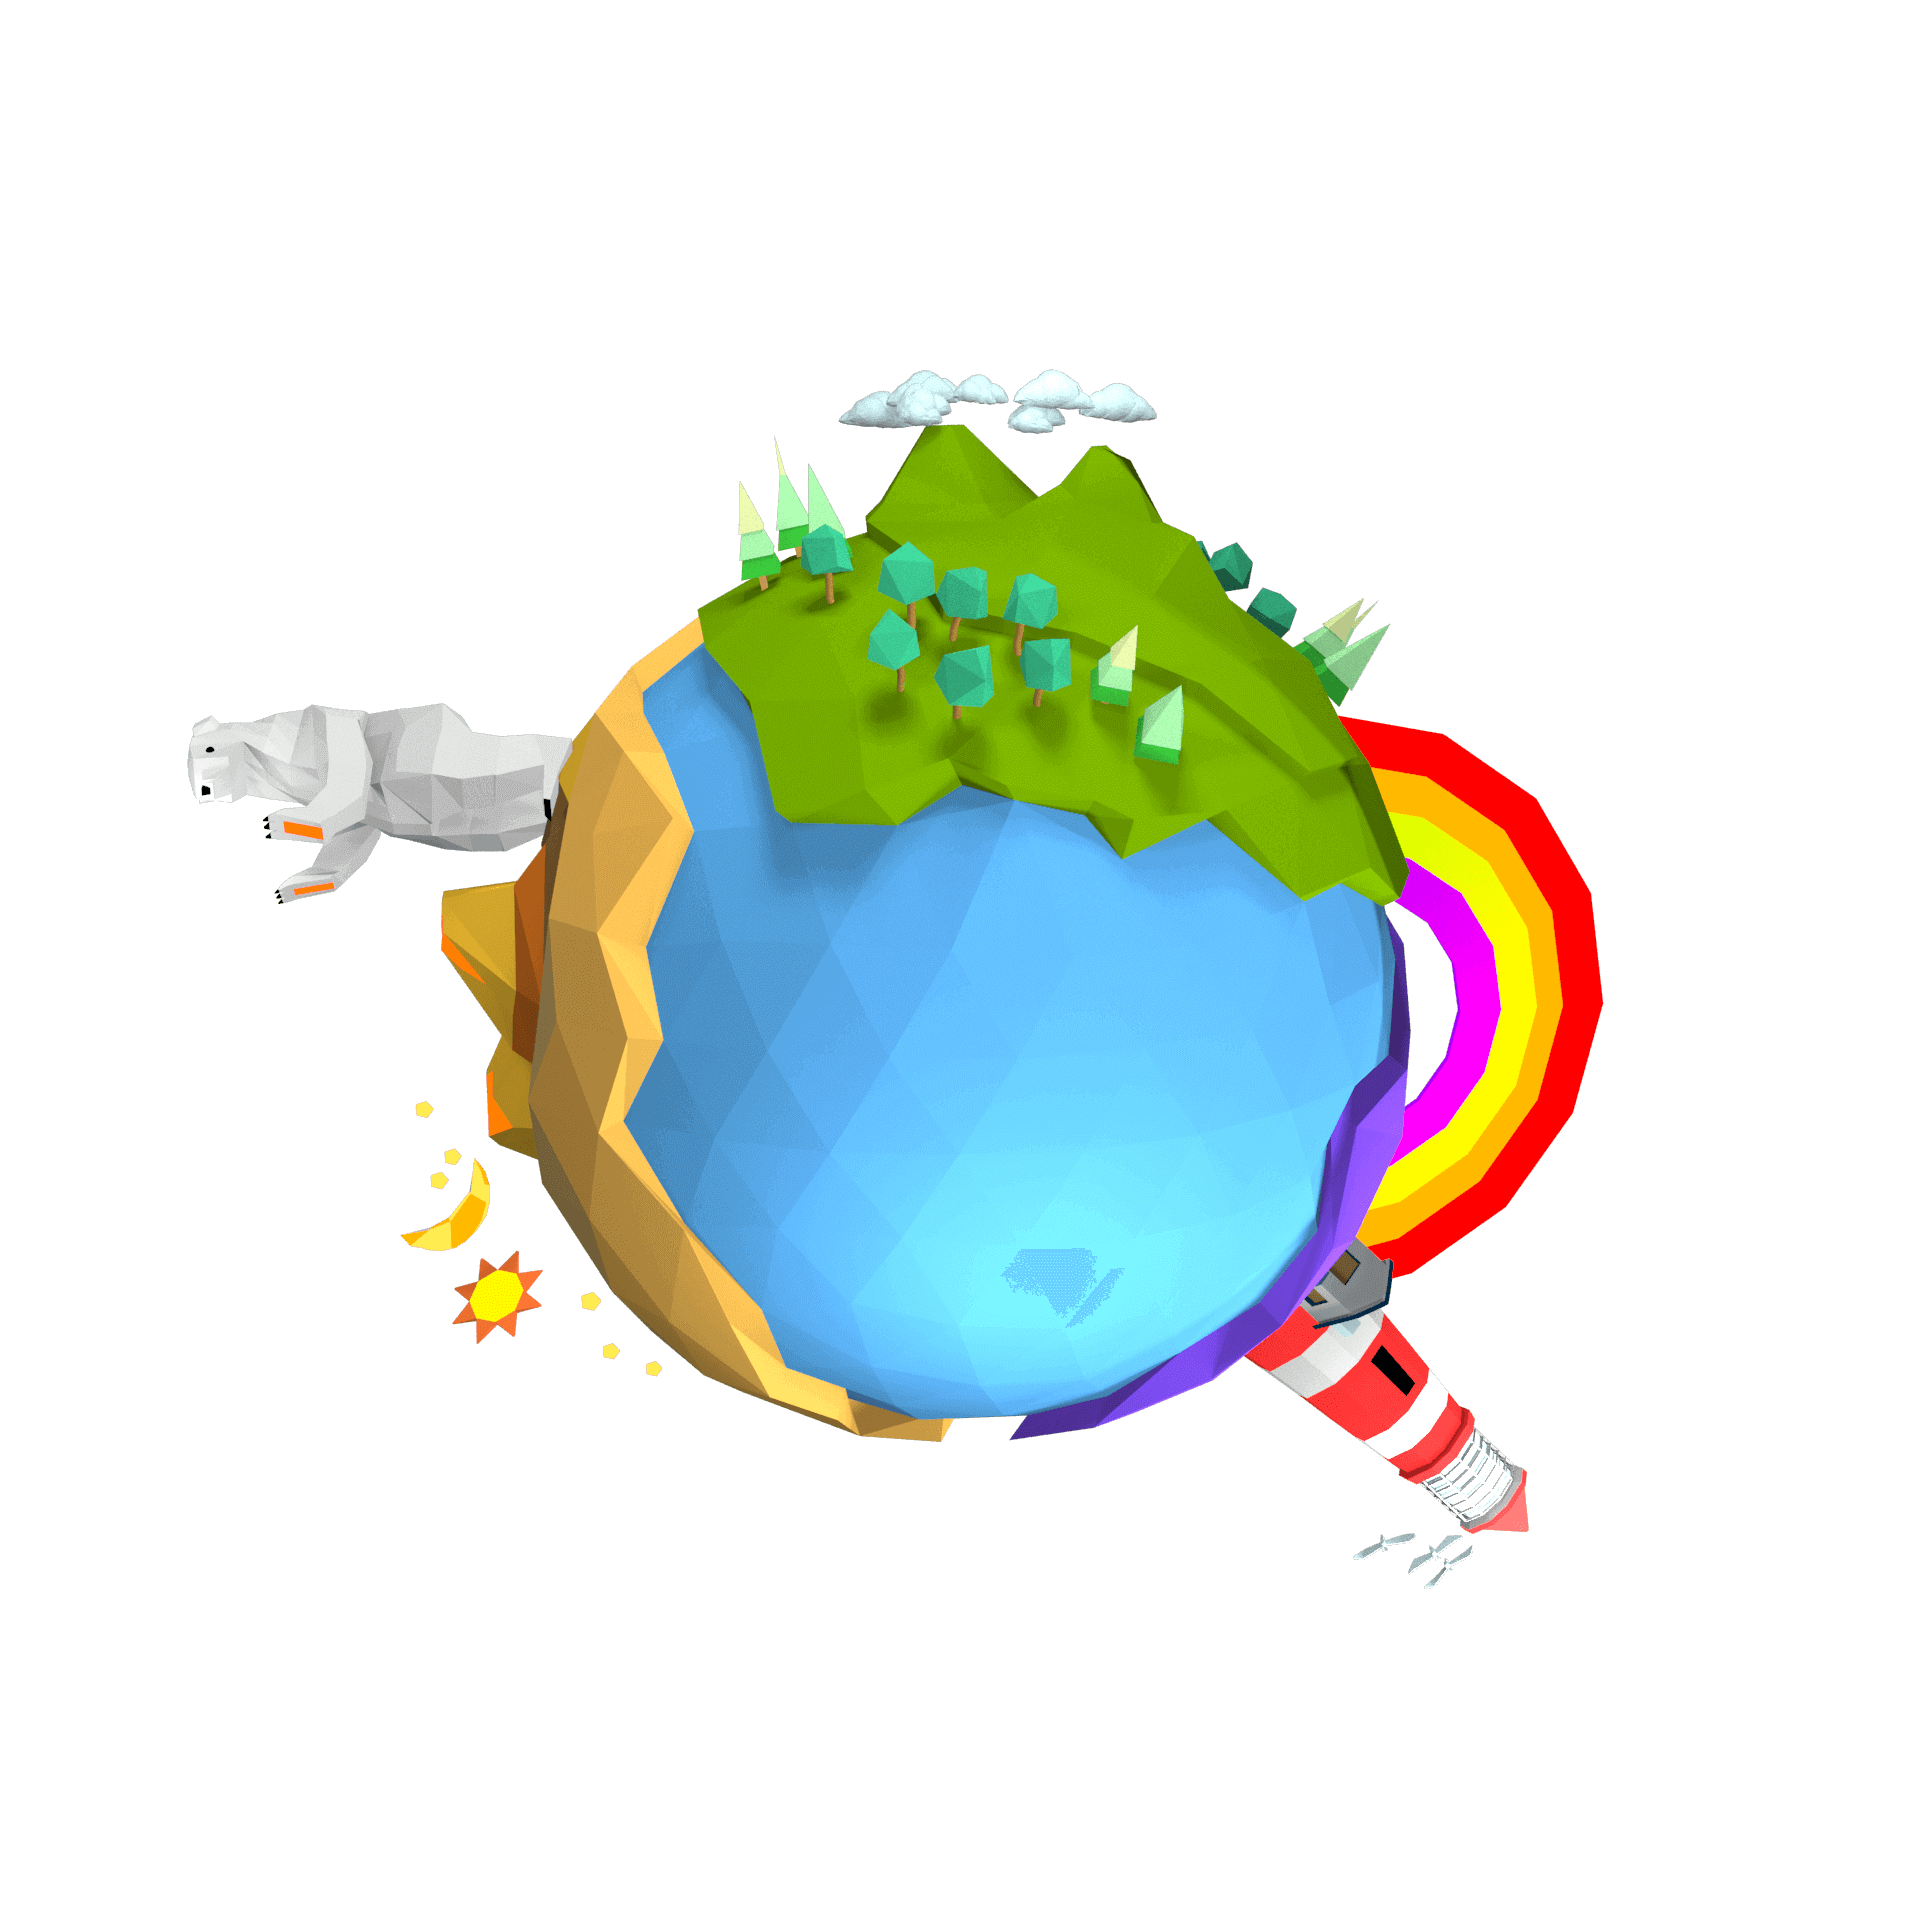
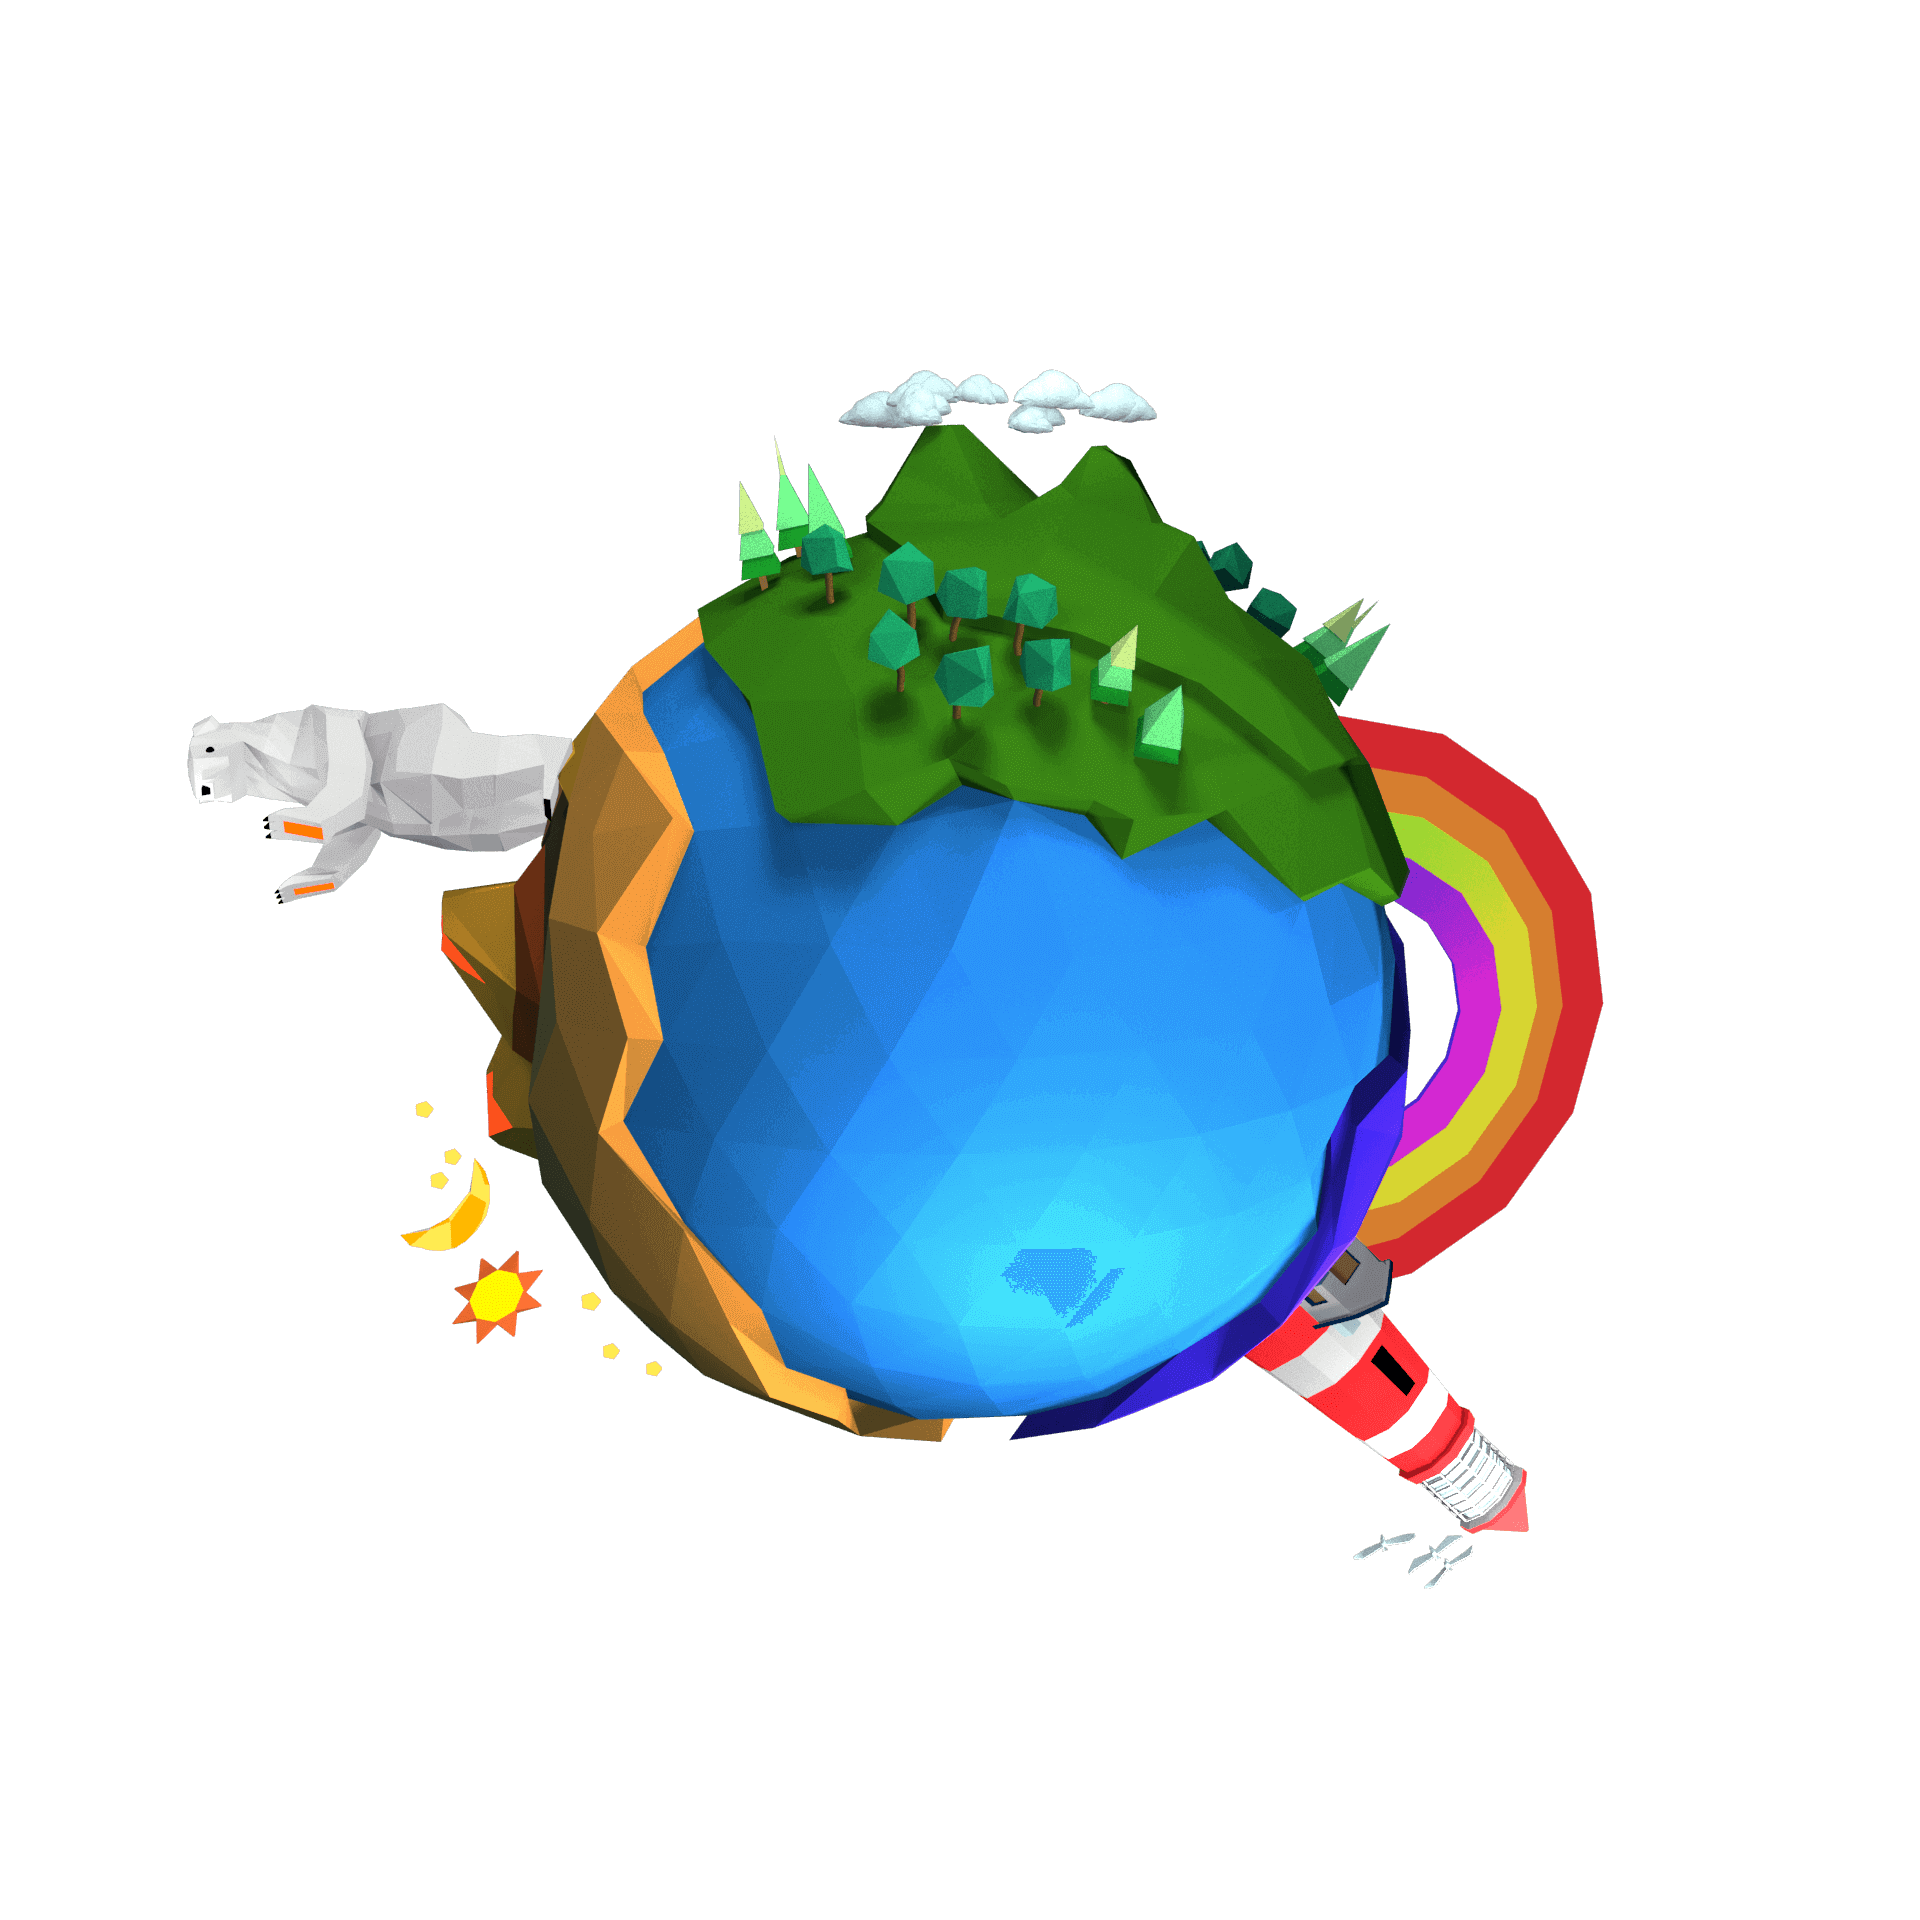
UI

Changed region(s): [[0.2188, 0.2188, 0.8438, 0.75]]

diff --git a/css/home.css b/css/home.css
@@ -9,26 +9,79 @@
   background-color: #171717;
 }
 /*---------------------circle and bg--------------------*/
-.circle {
+.world-background-circle {
   position: absolute;
-  top: 60%;
+  top: 70%;
   left: 50%;
   transform: translateX(-50%);
-  border-radius: 50%;
-  /* z-index-99-93 */
+  display: flex;
+  justify-content: center;
+  align-items: center;
+  border: 1px solid red;
 }
-.circle > div {
-  width: 10dvh;
-  height: 10dvh;
-}
-.world-background {
+.world-circle {
   position: absolute;
-  top: 50%;
-  left: 50%;
-  transform: translate(-50%, -50%);
-  width: 90%;
-  height: 100%;
+  border-radius: 50%;
+}
+.c0 {
+  width: 300dvh;
+  height: 300dvh;
+  background-color: #1e2125;
   z-index: 0;
+}
+.c1 {
+  width: 270dvh;
+  height: 270dvh;
+  background-color: #1a1e21;
+  z-index: 1;
+}
+.c2 {
+  width: 240dvh;
+  height: 240dvh;
+  background-color: #171a1d;
+  z-index: 2;
+}
+.c3 {
+  width: 210dvh;
+  height: 210dvh;
+  background-color: #141619;
+  z-index: 3;
+}
+.c4 {
+  width: 180dvh;
+  height: 180dvh;
+  background-color: #111315;
+  z-index: 4;
+}
+.c5 {
+  width: 150dvh;
+  height: 150dvh;
+  background-color: #0d0f10;
+  z-index: 5;
+}
+.c6 {
+  width: 120dvh;
+  height: 120dvh;
+  background-color: #0a0b0c;
+  z-index: 6;
+}
+.c7 {
+  width: 90dvh;
+  height: 90dvh;
+  background-color: #070708;
+  z-index: 7;
+}
+.c8 {
+  width: 60dvh;
+  height: 60dvh;
+  background-color: #030404;
+  z-index: 8;
+}
+.c9 {
+  width: 30dvh;
+  height: 30dvh;
+  background-color: #000000;
+  z-index: 9;
 }
 /*---------------------circle and bg--------------------*/
 /*---------------------core--------------------*/
@@ -233,6 +286,18 @@
   opacity: 0;
   transition: all 0.5s ease-in-out;
 }
+/* .world-bear-sparkle {
+  position: absolute;
+  top: 25%;
+  left: 0%;
+  transform: rotate(-100deg);
+  width: 50dvh;
+  height: 100dvh;
+  z-index: 7;
+  transition: all 0.5s ease-in-out;
+  background-color: red;
+  color: green;
+} */
 .speech-bubble {
   position: relative;
   width: 100%;
@@ -335,24 +400,13 @@
   height: 12dvh;
   font-size: 1.5rem;
   font-weight: 100;
-  /* color: red; */
   background-color: rgba(186, 227, 200, 0.2);
-  /* background-color: rgba(186, 227, 200, 0.1); */
   border-radius: 40% 60% 35% 65% / 47% 40% 60% 53%;
-  /* border: 1px solid rgba(255, 25, 0, 1); */
   transition: all 0.5s ease-in-out;
   animation: animateHalo 4s infinite linear;
   z-index: 10;
   cursor: pointer;
 }
-/* .light-halo.lh0 > i {
-  transform: rotate(45deg);
-}
-.light-halo.lh0:hover {
-  color: red;
-  background-color: rgba(255, 0, 0, 0.1);
-  border: 1px solid rgba(255, 25, 0, 1);
-} */
 .light-halo.lh1 {
   left: -4%;
   bottom: -5%;
@@ -360,7 +414,6 @@
   height: 17dvh;
   background-color: rgba(185, 235, 201, 0.1);
   border-radius: 52% 48% 69% 31% / 59% 51% 49% 41%;
-  /* border: 1px solid rgba(185, 235, 201, 0.1); */
   animation: animateHalo 6s infinite linear;
   z-index: 8;
 }
@@ -371,7 +424,6 @@
   height: 20dvh;
   background-color: rgba(156, 226, 180, 0.08);
   border-radius: 52% 48% 76% 24% / 44% 52% 48% 56%;
-  /* border: 1px solid rgba(185, 235, 201, 0.1); */
   animation: animateHalo 8s infinite linear;
   z-index: 8;
 }
@@ -402,27 +454,30 @@
   filter: drop-shadow(0px 0px 10px rgba(156, 226, 180, 0.4));
   transform: rotateZ(30deg) translateX(-50%);
   overflow: hidden;
-  z-index: 7;
 }
 .laser-beam.lb0 {
   width: 1dvh;
   animation: laser 6s infinite;
   border-top: 150dvh solid rgba(156, 226, 180, 0.08);
+  z-index: 7;
 }
 .laser-beam.lb1 {
   width: 0.8dvh;
   animation: laser 6.5s infinite;
   border-top: 150dvh solid rgba(156, 226, 180, 0.1);
+  z-index: 8;
 }
 .laser-beam.lb2 {
   width: 1.2dvh;
   animation: laser 7s infinite;
   border-top: 150dvh solid rgba(156, 226, 180, 0.2);
+  z-index: 9;
 }
 .laser-beam.lb3 {
   width: 0.7dvh;
   animation: laser 7.5s infinite;
   border-top: 150dvh solid rgba(156, 226, 180, 0.07);
+  z-index: 10;
 }
 @keyframes laser {
   0% {
@@ -434,6 +489,16 @@
   100% {
     transform: rotateZ(35deg) translateX(-50%);
   }
+}
+.ufo {
+  position: absolute;
+  transform: rotate(-250deg);
+  font-size: 5rem;
+  bottom: 15%;
+  left: 15%;
+  color: blue;
+  background-color: red;
+  z-index: 8;
 }
 /*---------------------core--------------------*/
 /*---------------------control-group--------------------*/

diff --git a/src/components/home.js b/src/components/home.js
@@ -18,32 +18,6 @@ const weLayer1 = document.querySelector(".we-layer-1");
 const weLayer2 = document.querySelector(".we-layer-2");
 const worldSubText = document.querySelector(".world-sub-text");
 const moreDetailA = document.querySelectorAll(".world-base-more-detail a");
-let globalIndex;
-document.addEventListener("DOMContentLoaded", function () {
-  const baseColor = "#000000";
-  const targetColor = "#343a40";
-  const world = document.getElementById("world");
-  for (let i = 1; i <= 12; i++) {
-    const circle = document.createElement("div");
-    circle.className = "circle circle-" + i;
-    circle.style.top = 70 - i * 20 + "%";
-    circle.style.width = 20 + i * 40 + "dvh";
-    circle.style.height = 20 + i * 40 + "dvh";
-    circle.style.backgroundColor = adjustColor(baseColor, targetColor, i / 10);
-    circle.style.zIndex = 8 - i;
-    world.appendChild(circle);
-  }
-  // for (let i = 1; i <= 7; i++) {
-  //   const circle = document.createElement("div");
-  //   circle.className = "circle circle-" + i;
-  //   circle.style.top = 60 - i * 20 + "%";
-  //   circle.style.width = 20 + i * 50 + "dvh";
-  //   circle.style.height = 20 + i * 50 + "dvh";
-  //   circle.style.backgroundColor = adjustColor(baseColor, targetColor, i / 10);
-  //   circle.style.zIndex = 8 - i;
-  //   world.appendChild(circle);
-  // }
-});
 
 function changeInAnimation() {
   circle_0.style.animation = "pulse-bold 1.2s ease-out infinite";
@@ -62,22 +36,6 @@ function changeOutAnimation() {
     "drop-shadow(0rem 0rem 0.2rem rgba(42, 42, 41, 0.5)) brightness(90%)";
 }
 
-function adjustColor(startColor, endColor, percentage) {
-  const start = hexToRgb(startColor);
-  const end = hexToRgb(endColor);
-  const r = Math.round(start.r + percentage * (end.r - start.r));
-  const g = Math.round(start.g + percentage * (end.g - start.g));
-  const b = Math.round(start.b + percentage * (end.b - start.b));
-  return `rgb(${r}, ${g}, ${b})`;
-}
-
-function hexToRgb(hex) {
-  return {
-    r: parseInt(hex.slice(1, 3), 16),
-    g: parseInt(hex.slice(3, 5), 16),
-    b: parseInt(hex.slice(5, 7), 16),
-  };
-}
 let isRotationAllowed = false;
 
 function rotateWorld(degrees, index) {

diff --git a/index.html b/index.html
@@ -172,6 +172,7 @@
               <div class="bear-grid" id="bearGrid"></div>
               <div class="speech-bubble"></div>
             </div>
+            <!-- <div class="world-bear-sparkle">vv</div> -->
             <div class="world-lighthouse">
               <div class="laser-beam lb0"></div>
               <div class="laser-beam lb1"></div>
@@ -182,6 +183,7 @@
               </div>
               <div class="light-halo lh1"></div>
               <div class="light-halo lh2"></div>
+              <div class="ufo">XXX</div>
             </div>
             <div
               class="world-balloon"
@@ -303,7 +305,18 @@
               </div>
             </div>
           </div>
-          <div class="world-background" id="world"></div>
+          <div class="world-background-circle">
+            <div class="world-circle c9"></div>
+            <div class="world-circle c8"></div>
+            <div class="world-circle c7"></div>
+            <div class="world-circle c6"></div>
+            <div class="world-circle c5"></div>
+            <div class="world-circle c4"></div>
+            <div class="world-circle c3"></div>
+            <div class="world-circle c2"></div>
+            <div class="world-circle c1"></div>
+            <div class="world-circle c0"></div>
+          </div>
         </div>
       </section>
       <!----------   end home section   -------------->

diff --git a/css/home-media-portrait.css b/css/home-media-portrait.css
@@ -1,6 +1,69 @@
 /*----------------------------------------------------------------------PORTRAIT------------------------------*/
 @media screen and (max-width: 479px) {
   /*-----------------------------PORTRAIT GENERAL SIZE ---------------------*/
+  .world-background-circle {
+    top: 75%;
+  }
+  .c0 {
+    width: 160dvh;
+    height: 160dvh;
+    background-color: #1e2125;
+    z-index: 0;
+  }
+  .c1 {
+    width: 140dvh;
+    height: 140dvh;
+    background-color: #1a1e21;
+    z-index: 1;
+  }
+  .c2 {
+    width: 115dvh;
+    height: 115dvh;
+    background-color: #171a1d;
+    z-index: 2;
+  }
+  .c3 {
+    width: 100dvh;
+    height: 100dvh;
+    background-color: #141619;
+    z-index: 3;
+  }
+  .c4 {
+    width: 85dvh;
+    height: 85dvh;
+    background-color: #111315;
+    z-index: 4;
+  }
+  .c5 {
+    width: 70dvh;
+    height: 70dvh;
+    background-color: #0d0f10;
+    z-index: 5;
+  }
+  .c6 {
+    width: 55dvh;
+    height: 55dvh;
+    background-color: #0a0b0c;
+    z-index: 6;
+  }
+  .c7 {
+    width: 40dvh;
+    height: 40dvh;
+    background-color: #070708;
+    z-index: 7;
+  }
+  .c8 {
+    width: 25dvh;
+    height: 25dvh;
+    background-color: #030404;
+    z-index: 8;
+  }
+  .c9 {
+    width: 10dvh;
+    height: 10dvh;
+    background-color: #000000;
+    z-index: 9;
+  }
   .world-core {
     width: 145dvh;
     height: 145dvh;

diff --git a/css/about-media-portrait.css b/css/about-media-portrait.css
@@ -16,9 +16,10 @@
     text-align: left;
     text-justify: inter-character;
     border-right: none;
+    border-top: 1px dotted #b7bbbf;
     border-bottom: 1px dotted #b7bbbf;
-    padding: 0 0 5% 0;
-    margin: 5% 0 5% 0;
+    padding: 5% 0 5% 0;
+    margin: 0 0 5% 0;
   }
   .about-title-group {
     display: flex;
@@ -247,7 +248,10 @@
   .about-weare-box {
     width: 100%;
     border-right: none;
+    border-top: 1px dotted #b7bbbf;
     border-bottom: 1px dotted #b7bbbf;
+    padding: 5% 0 5% 0;
+    margin: 0 0 5% 0;
   }
   /*---------------------------NARROW FONT-SIZE FOR PORTRAIT-------------------------*/
   .about-service-box span {
@@ -293,7 +297,10 @@
   .about-weare-box {
     width: 100%;
     border-right: none;
+    border-top: 1px dotted #b7bbbf;
     border-bottom: 1px dotted #b7bbbf;
+    padding: 5% 0 5% 0;
+    margin: 0 0 5% 0;
   }
   /* IPhone SE OLD */
   @media (max-height: 568px) {
